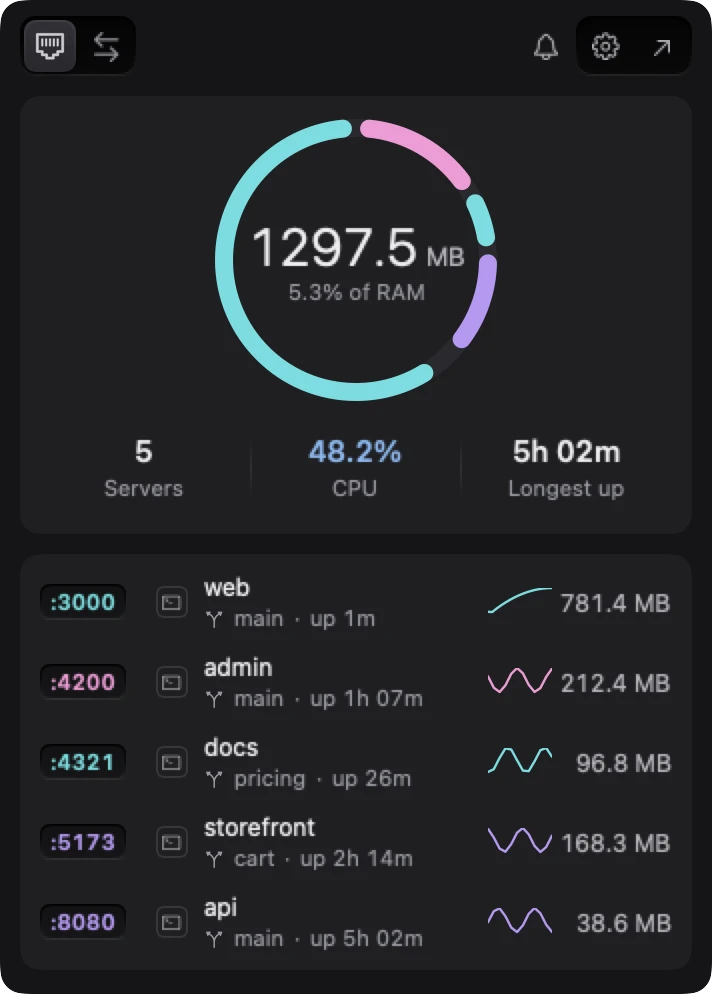
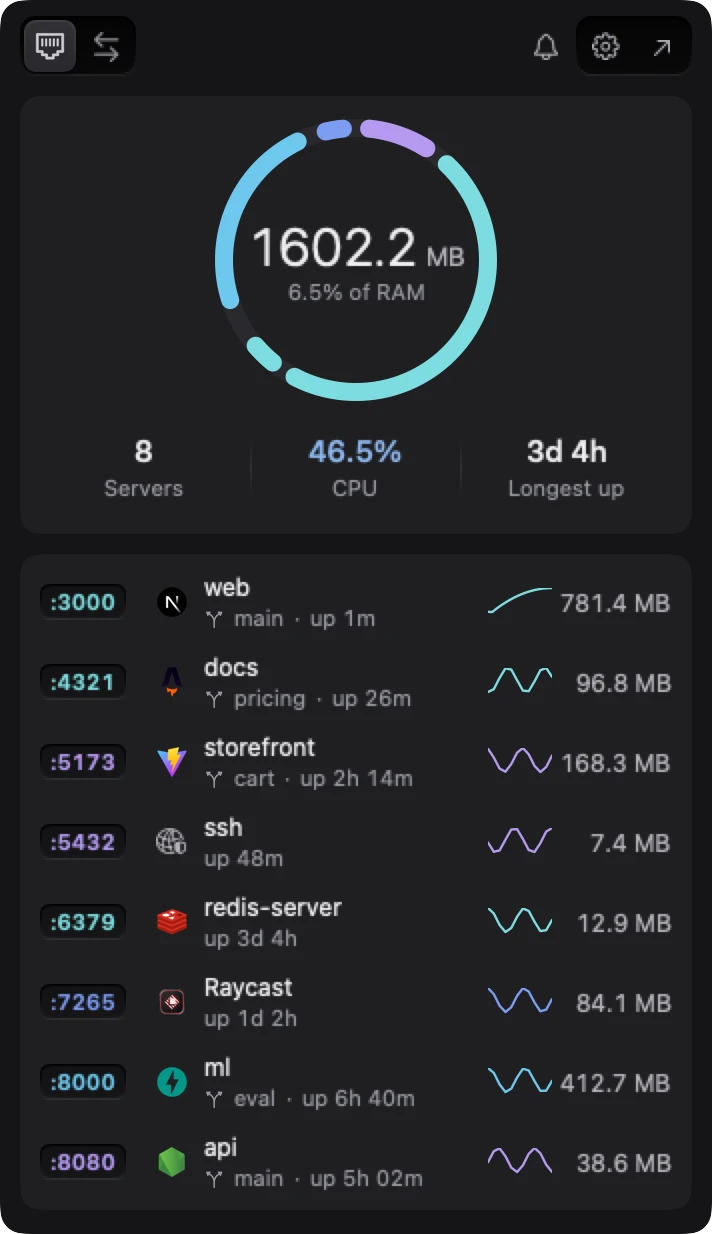
Show Portman and the menu panel in the README hero
The README hero and gallery used old captures, so Portman, the menu
panel Home, and the Fan page were missing or showed the old design.

Draw fresh stills from the demo build and frame them on the same
wallpaper. The hero now shows RSync UI, the menu panel Home, Portman,
and Mac Tweaks. The gallery adds the menu panel, Portman server
details, and Fan. The Fan and Portman rows in the tools table name the
new presets, the tool each server runs, and who started it.

Replace the site's Portman capture with the new 8-row list, so the
next site deploy shows the new icons.

diff --git a/README.md b/README.md
@@ -24,7 +24,7 @@
 <p align="center">
   <picture>
     <source media="(prefers-color-scheme: dark)" srcset="docs/readme/bento-dark.webp">
-    <img src="docs/readme/bento-light.webp" alt="Four tiles with a caption under each: RSync UI, Color Picker, Text Extractor, and Mac Tweaks" width="880">
+    <img src="docs/readme/bento-light.webp" alt="Four tiles with a caption under each: RSync UI, the menu panel, Portman, and Mac Tweaks" width="880">
   </picture>
 </p>
 
@@ -42,12 +42,12 @@ MacPowerToys puts the small tools macOS is missing in one menu bar app.
 
 | | Tool | What it does |
 |:--:|---|---|
-| <img src="site/public/assets/tools/fan.webp" width="28" alt=""> | **Fan** | Set fan curves that keep your Mac quiet, or run the fans at full speed. |
+| <img src="site/public/assets/tools/fan.webp" width="28" alt=""> | **Fan** | Pick Quiet, Balanced, or Cool, draw your own curve, or run the fans at full speed. |
 | <img src="site/public/assets/tools/ruler.webp" width="28" alt=""> | **Ruler** | Measure anything on screen in pixels, millimeters, or inches. |
 | <img src="site/public/assets/tools/awake.webp" width="28" alt=""> | **Awake** | Keep the Mac awake for a time, until a time, or while an app runs. |
 | <img src="site/public/assets/tools/color-picker.webp" width="28" alt=""> | **Color Picker** | Pick any pixel, copy it in nine formats, and keep colors in projects. |
 | <img src="site/public/assets/tools/text-extractor.webp" width="28" alt=""> | **Text Extractor** | Select part of the screen and copy its text. |
-| <img src="site/public/assets/tools/portman.webp" width="28" alt=""> | **Portman** | See your local dev servers and forward ports from an SSH server. |
+| <img src="site/public/assets/tools/portman.webp" width="28" alt=""> | **Portman** | See your local dev servers, the tool each one runs, and who started it. Forward ports from an SSH server. |
 | <img src="site/public/assets/tools/rsync.webp" width="28" alt=""> | **RSync UI** | Plan and run rclone copies that pause and resume. |
 | <img src="site/public/assets/tools/input-devices.webp" width="28" alt=""> | **Input Devices** | Set scroll direction, speed, and smoothing for mouse and trackpad. |
 | <img src="site/public/assets/tools/mac-tweaks.webp" width="28" alt=""> | **Mac Tweaks** | Change hidden Dock, Finder, and window settings. Every original value is kept. |
@@ -92,11 +92,14 @@ Then:
 
 ## Screenshots
 
-RSync UI, Color Picker, Text Extractor, Mac Tweaks, Input Devices, Event Viewer, and Ruler. Click one to see it full size.
+The menu panel, Portman, Fan, RSync UI, Color Picker, Text Extractor, Mac Tweaks, Input Devices, Event Viewer, and Ruler. Click one to see it full size.
 
 <sub>Every shot uses made-up sample data.</sub>
 
 <p>
+<a href="docs/readme/shots/menu-panel.webp"><img src="docs/readme/shots/menu-panel.webp" alt="Menu panel" width="120"></a>
+<a href="docs/readme/shots/portman.webp"><img src="docs/readme/shots/portman.webp" alt="Portman server details" width="120"></a>
+<a href="docs/readme/shots/fan.webp"><img src="docs/readme/shots/fan.webp" alt="Fan" width="120"></a>
 <a href="docs/readme/shots/rsync.webp"><img src="docs/readme/shots/rsync.webp" alt="RSync UI" width="120"></a>
 <a href="docs/readme/shots/color-picker.webp"><img src="docs/readme/shots/color-picker.webp" alt="Color Picker" width="120"></a>
 <a href="docs/readme/shots/text-extractor.webp"><img src="docs/readme/shots/text-extractor.webp" alt="Text Extractor" width="120"></a>
